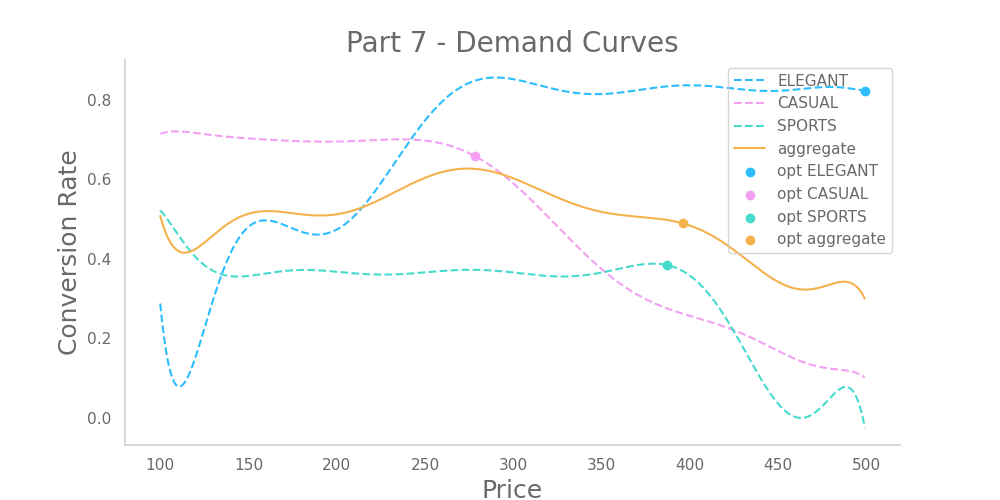
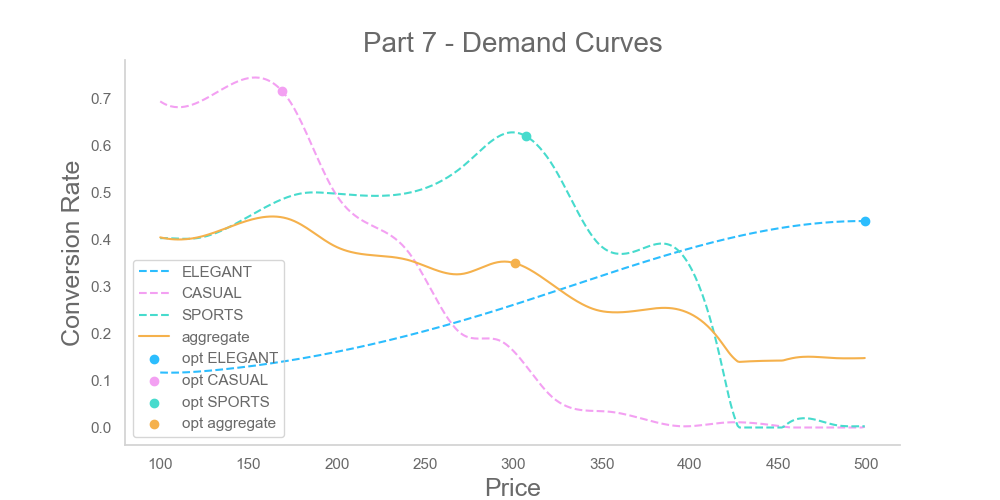
noise params update

diff --git a/project/TestingOneShot.py b/project/TestingOneShot.py
@@ -20,13 +20,13 @@ n_experiment = 25
 np.random.seed(0)
 
 testing_setup = {
-    'part2': False,
-    'part3': False,
-    'part4': False,
-    'part5': False,
-    'part6': False,
+    'part2': True,
+    'part3': True,
+    'part4': True,
+    'part5': True,
+    'part6': True,
     'part7_binomial': True,
-    'part7_normal': False
+    'part7_normal': True
 
 }
 
@@ -194,22 +194,20 @@ if __name__ == '__main__':
         # PART 7
         print_('PART 7 NORMAL')
 
-        for artificial_noise_ADV in artificial_noise_ADVs:
-            for artificial_noise_CR in artificial_noise_CRs:
-                test_part7(n_experiments=n_experiment,
-                           execution_type="normal",
-                           demand_chart_path=demand_curves_chart_path,
-                           demand_chart_title=demand_curves_title,
-                           artificial_noise_ADV=artificial_noise_ADV,
-                           artificial_noise_CR=artificial_noise_CR,
-                           results_chart_path=f'{charts_path}/part7_normal_'
-                                              f'ADV_noise{artificial_noise_ADV}_'
-                                              f'CR_noise{artificial_noise_CR}.png',
-                           results_chart_title=f'Part 7 ['
-                                               f'ADV_noise:{artificial_noise_ADV} '
-                                               f'CR_noise:{artificial_noise_CR}] ')
-                print_(f'Sub-test completed.\n'
-                       f'Time: {datetime.now()}\n')
+        test_part7(n_experiments=n_experiment,
+                   execution_type="normal",
+                   demand_chart_path=demand_curves_chart_path,
+                   demand_chart_title=demand_curves_title,
+                   artificial_noise_ADV=artificial_noise_ADV,
+                   artificial_noise_CR=artificial_noise_CR,
+                   results_chart_path=f'{charts_path}/part7_normal_'
+                                      f'ADV_noise{artificial_noise_ADV}_'
+                                      f'CR_noise{artificial_noise_CR}.png',
+                   results_chart_title=f'Part 7 ['
+                                       f'ADV_noise:{artificial_noise_ADV} '
+                                       f'CR_noise:{artificial_noise_CR}] ')
+        print_(f'Sub-test completed.\n'
+               f'Time: {datetime.now()}\n')
 
         print_(f'Test completed.\n'
                f'Time: {datetime.now()}\n')

diff --git a/project/part_7/Testing_Env_7.py b/project/part_7/Testing_Env_7.py
@@ -13,7 +13,7 @@ from project.part_7.part_7_normal.Env_7 import Env7
 from project.part_7.part_7_normal.Normal_FixedPriceBudgetAllocator import Normal_FixedPriceBudgetAllocator as PBAnormal
 
 
-def test_part7(n_experiments=10,
+def test_part7(n_experiments=1,
                execution_type="binomial",
                demand_chart_path='other_files/testing_part7_demandcurves.png',
                demand_chart_title='Part 7 - Demand Curves',

diff --git a/project/dia_pckg/Config.py b/project/dia_pckg/Config.py
@@ -58,5 +58,5 @@ n_arms_pricing = 21
 noise_std = 0.05
 
 # PART 7 artificial noises
-artificial_noise_ADVs = [0.0]  # , 0.05, 0.1, 0.2]
-artificial_noise_CRs = [0.0]  # , 0.05, 0.1, 0.2]
+artificial_noise_ADV = 0.0
+artificial_noise_CR = 0.0
